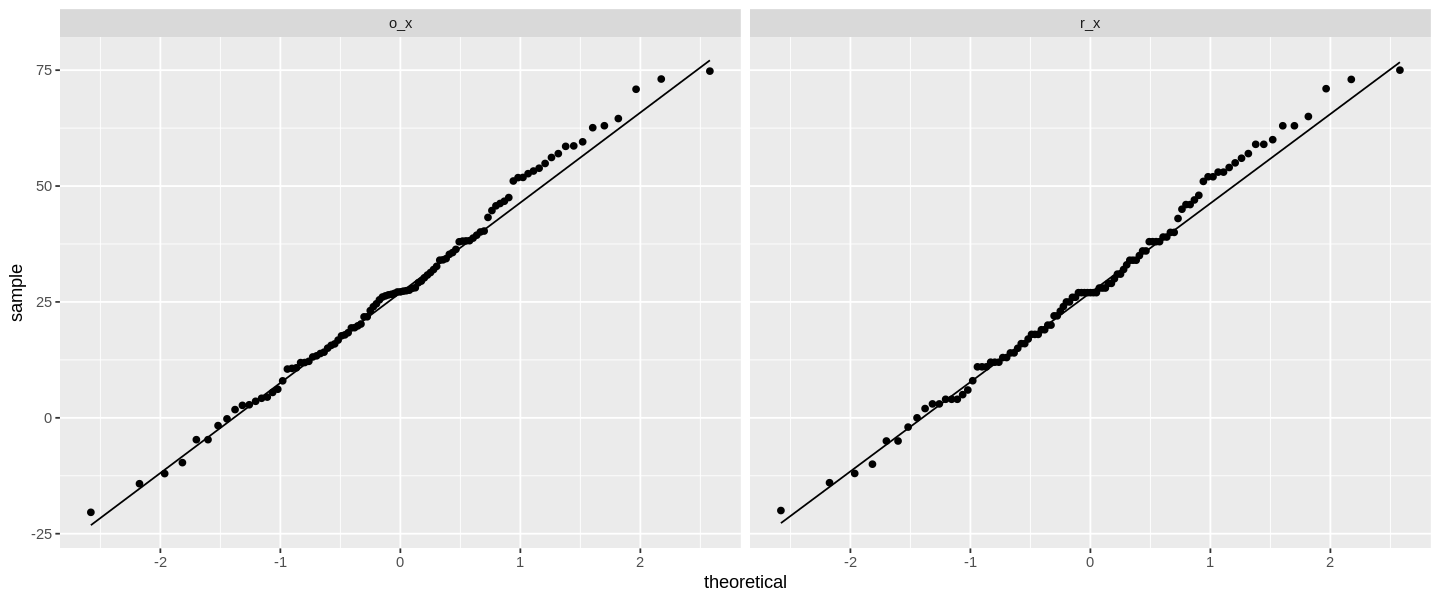
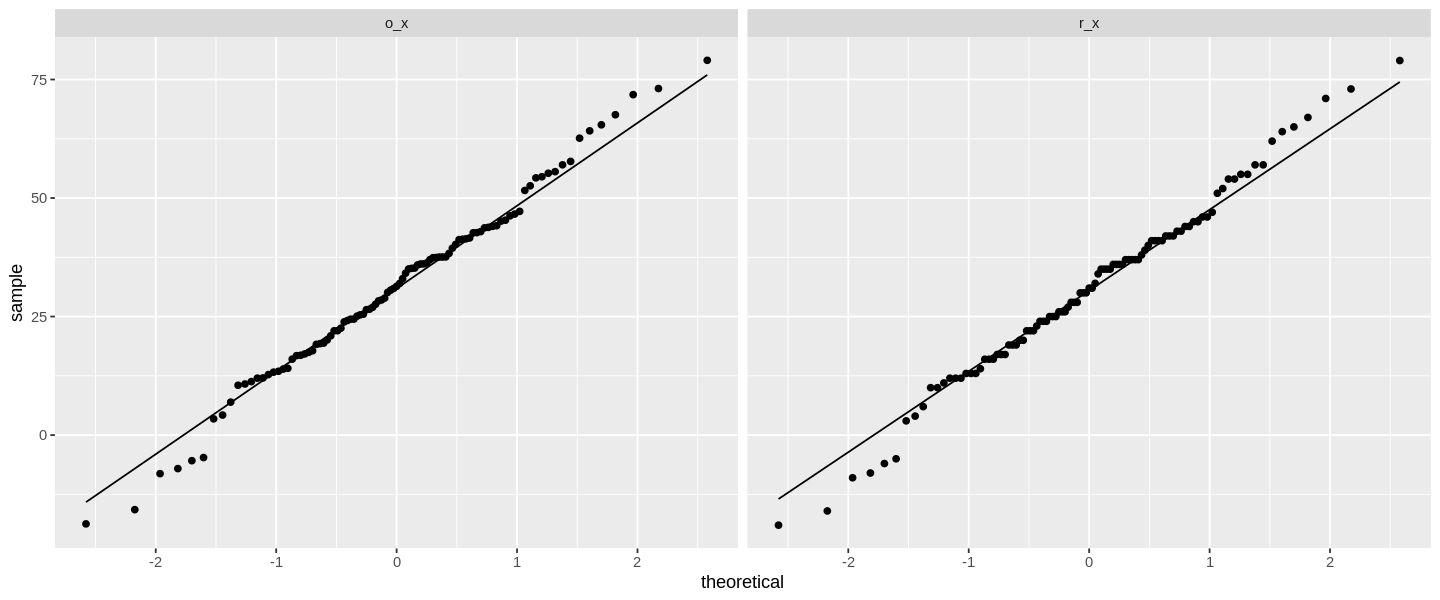
floor() statt round() - alle Daten neu berechnet.

diff --git a/_posts/2021-03-31-glahn.md b/_posts/2021-03-31-glahn.md
@@ -27,12 +27,12 @@ Wir würden erwarten, dass ein solches Abrunden keinen gewaltigen Effekt auf die
 daten = tibble(o_x = rnorm(101, mean = 30, sd = 20)) 
 ```
 
-Anschliessend runden wir die Werte und behalten sowohl den originalen ungerundeten als auch den gerundeten Wert. Das Ganze visualisieren wir  mit [ggplot2](https://ggplot2-book.org) als gegenübergestellte Histogramme. Achtung: im Folgenden runde ich gleichmässig mit der Funktion round(). Beim Alter runden wir jedoch immer ab. Dadurch verschieben sich die Verteilungen ein wenig anders
+Anschliessend runden wir die Werte und behalten sowohl den originalen ungerundeten als auch den gerundeten Wert. Das Ganze visualisieren wir  mit [ggplot2](https://ggplot2-book.org) als gegenübergestellte Histogramme.
 
 
 ```R
 daten %>%
-    mutate(r_x = round(o_x)) -> daten_gerundet
+    mutate(r_x = floor(o_x)) -> daten_gerundet
 
 daten_gerundet %>%
     pivot_longer(everything(), names_to = "nm", values_to = "vl") %>%
@@ -68,7 +68,7 @@ daten_gerundet %>%
 	<tr><th scope=col>&lt;dbl&gt;</th><th scope=col>&lt;dbl&gt;</th></tr>
 </thead>
 <tbody>
-	<tr><td>0.8076272</td><td>0.7415109</td></tr>
+	<tr><td>0.7582778</td><td>0.7423585/td></tr>
 </tbody>
 </table>
 
@@ -104,7 +104,7 @@ Wiederholen wir unser Experiment mit einer ähnlichen Stichprobe.
 ```R
 tibble(o_x = rnorm(101, mean = 25, sd = 3)) %>%
     mutate(
-        r_x = round(o_x)
+        r_x = floor(o_x)
     ) -> daten_homogen
 
 daten_homogen %>%
@@ -141,13 +141,13 @@ daten_homogen %>%
 	<tr><th scope=col>&lt;dbl&gt;</th><th scope=col>&lt;dbl&gt;</th></tr>
 </thead>
 <tbody>
-	<tr><td>0.1863778</td><td>0.03313807</td></tr>
+	<tr><td>0.4695755</td><td>0.09376193</td></tr>
 </tbody>
 </table>
 
 
 
-Hier sehen wir einen deutlichen Unterschied zwischen den beiden Verteilungen. Die gerundeten Werte werden nämlich *nicht* mehr als normalverteilt erkannt, weil der p-Wert für die Verteilung der gerundeten Werte kleiner als `0.05` ist. 
+Hier sehen wir einen deutlichen Unterschied zwischen den beiden Verteilungen. Die gerundeten Werte werden nämlich *nicht* mehr eindeutig als normalverteilt erkannt, weil der p-Wert für die Verteilung der gerundeten Werte kleiner als `0.1` aber immer noch grösser als `0.05` ist. 
 
 Betrachten wir also auch den Quantile-Plot für diese Daten:
 
@@ -177,7 +177,7 @@ Dramatisch wird es, wenn eine grössere Stichprobe vorliegt. Für grössere Stic
 ```R
 tibble(o_x = rnorm(301, mean = 25, sd = 3)) %>%
     mutate(
-        r_x = round(o_x)
+        r_x = floor(o_x)
     ) %>%
     summarise(
         o_swt = shapiro.test(o_x) %>% pluck("p.value") ,
@@ -192,7 +192,7 @@ tibble(o_x = rnorm(301, mean = 25, sd = 3)) %>%
 	<tr><th scope=col>&lt;dbl&gt;</th><th scope=col>&lt;dbl&gt;</th></tr>
 </thead>
 <tbody>
-	<tr><td>0.4773816</td><td>0.00797515</td></tr>
+	<tr><td>0.7661587</td><td>0.01650833</td></tr>
 </tbody>
 </table>
 
@@ -214,7 +214,7 @@ tibble(sz = c(100, 300)) %>%
                 seq(1, 100)  %>% map((function(m)
                         tibble(d = rnorm(n, mean = 25, sd = v)) %>%
                             mutate(
-                                dr = round(d)
+                                dr = floor(d)
                             ) %>%
                             summarise(
                                 swt_orig = shapiro.test(d) %>% pluck("p.value"),
@@ -273,20 +273,20 @@ sim_res
 	<tr><th scope=col>&lt;dbl&gt;</th><th scope=col>&lt;int&gt;</th><th scope=col>&lt;int&gt;</th><th scope=col>&lt;dbl&gt;</th><th scope=col>&lt;dbl&gt;</th><th scope=col>&lt;dbl&gt;</th><th scope=col>&lt;dbl&gt;</th><th scope=col>&lt;dbl&gt;</th><th scope=col>&lt;dbl&gt;</th><th scope=col>&lt;dbl&gt;</th><th scope=col>&lt;dbl&gt;</th></tr>
 </thead>
 <tbody>
-	<tr><td>100</td><td>1</td><td>100</td><td>0.5065447</td><td>0.2647259</td><td>92</td><td>96</td><td>1.732884e-05</td><td>3.181774e-05</td><td> 0</td><td> 0</td></tr>
-	<tr><td>300</td><td>1</td><td>100</td><td>0.5104359</td><td>0.2966514</td><td>88</td><td>94</td><td>3.502068e-11</td><td>1.082381e-10</td><td> 0</td><td> 0</td></tr>
-	<tr><td>100</td><td>2</td><td>100</td><td>0.5155653</td><td>0.2724566</td><td>93</td><td>97</td><td>2.249521e-02</td><td>2.380281e-02</td><td> 1</td><td>11</td></tr>
-	<tr><td>300</td><td>2</td><td>100</td><td>0.5167756</td><td>0.2898001</td><td>90</td><td>96</td><td>6.545307e-05</td><td>6.713743e-05</td><td> 0</td><td> 0</td></tr>
-	<tr><td>100</td><td>3</td><td>100</td><td>0.4983786</td><td>0.2908598</td><td>88</td><td>92</td><td>1.487559e-01</td><td>1.344941e-01</td><td>52</td><td>72</td></tr>
-	<tr><td>300</td><td>3</td><td>100</td><td>0.4843589</td><td>0.3027010</td><td>91</td><td>98</td><td>8.191736e-03</td><td>8.473458e-03</td><td> 0</td><td> 0</td></tr>
-	<tr><td>100</td><td>4</td><td>100</td><td>0.4656560</td><td>0.2824380</td><td>83</td><td>93</td><td>2.321351e-01</td><td>1.707667e-01</td><td>72</td><td>81</td></tr>
-	<tr><td>300</td><td>4</td><td>100</td><td>0.4709896</td><td>0.2596782</td><td>93</td><td>97</td><td>4.809246e-02</td><td>3.953590e-02</td><td>12</td><td>36</td></tr>
-	<tr><td>100</td><td>5</td><td>100</td><td>0.4876623</td><td>0.2907267</td><td>90</td><td>96</td><td>3.200359e-01</td><td>2.318128e-01</td><td>81</td><td>89</td></tr>
-	<tr><td>300</td><td>5</td><td>100</td><td>0.4763294</td><td>0.2973952</td><td>84</td><td>89</td><td>1.210158e-01</td><td>1.029215e-01</td><td>50</td><td>71</td></tr>
-	<tr><td>100</td><td>6</td><td>100</td><td>0.4909743</td><td>0.2824142</td><td>93</td><td>95</td><td>3.658340e-01</td><td>2.465823e-01</td><td>85</td><td>95</td></tr>
-	<tr><td>300</td><td>6</td><td>100</td><td>0.5016797</td><td>0.2806621</td><td>89</td><td>95</td><td>2.081683e-01</td><td>1.528467e-01</td><td>72</td><td>78</td></tr>
-	<tr><td>100</td><td>7</td><td>100</td><td>0.5078396</td><td>0.2782365</td><td>90</td><td>95</td><td>4.127144e-01</td><td>2.579759e-01</td><td>88</td><td>92</td></tr>
-	<tr><td>300</td><td>7</td><td>100</td><td>0.5193758</td><td>0.2883552</td><td>91</td><td>93</td><td>2.945605e-01</td><td>2.065937e-01</td><td>83</td><td>90</td></tr>
+	<tr><td>100</td><td>1</td><td>100</td><td>0.5274951</td><td>0.2891409</td><td>92</td><td>96</td><td>1.050969e-05</td><td>1.556370e-05</td><td> 0</td><td> 0</td></tr>
+	<tr><td>300</td><td>1</td><td>100</td><td>0.5196917</td><td>0.3037655</td><td>87</td><td>94</td><td>1.981378e-11</td><td>2.557004e-11</td><td> 0</td><td> 0</td></tr>
+	<tr><td>100</td><td>2</td><td>100</td><td>0.4635255</td><td>0.3024703</td><td>84</td><td>89</td><td>2.281296e-02</td><td>2.610167e-02</td><td> 2</td><td>12</td></tr>
+	<tr><td>300</td><td>2</td><td>100</td><td>0.4763649</td><td>0.2686310</td><td>91</td><td>96</td><td>6.607675e-05</td><td>7.466181e-05</td><td> 0</td><td> 0</td></tr>
+	<tr><td>100</td><td>3</td><td>100</td><td>0.5271164</td><td>0.2724495</td><td>94</td><td>96</td><td>1.355401e-01</td><td>1.109334e-01</td><td>49</td><td>78</td></tr>
+	<tr><td>300</td><td>3</td><td>100</td><td>0.4919047</td><td>0.2997262</td><td>88</td><td>94</td><td>7.669087e-03</td><td>7.224085e-03</td><td> 0</td><td> 0</td></tr>
+	<tr><td>100</td><td>4</td><td>100</td><td>0.4655805</td><td>0.2983864</td><td>83</td><td>91</td><td>2.325318e-01</td><td>1.888101e-01</td><td>67</td><td>80</td></tr>
+	<tr><td>300</td><td>4</td><td>100</td><td>0.4539497</td><td>0.2837617</td><td>88</td><td>91</td><td>4.472703e-02</td><td>4.036167e-02</td><td>10</td><td>32</td></tr>
+	<tr><td>100</td><td>5</td><td>100</td><td>0.5029088</td><td>0.2887666</td><td>89</td><td>97</td><td>3.272665e-01</td><td>2.230211e-01</td><td>81</td><td>90</td></tr>
+	<tr><td>300</td><td>5</td><td>100</td><td>0.4803165</td><td>0.2763079</td><td>87</td><td>93</td><td>1.191972e-01</td><td>8.625414e-02</td><td>56</td><td>73</td></tr>
+	<tr><td>100</td><td>6</td><td>100</td><td>0.4894684</td><td>0.2832150</td><td>91</td><td>94</td><td>3.703226e-01</td><td>2.552920e-01</td><td>85</td><td>93</td></tr>
+	<tr><td>300</td><td>6</td><td>100</td><td>0.5076400</td><td>0.3055214</td><td>90</td><td>94</td><td>2.170836e-01</td><td>1.704709e-01</td><td>65</td><td>79</td></tr>
+	<tr><td>100</td><td>7</td><td>100</td><td>0.4664821</td><td>0.2994581</td><td>85</td><td>92</td><td>3.736853e-01</td><td>2.578793e-01</td><td>79</td><td>90</td></tr>
+	<tr><td>300</td><td>7</td><td>100</td><td>0.5345596</td><td>0.2943685</td><td>91</td><td>95</td><td>2.915232e-01</td><td>2.043859e-01</td><td>79</td><td>88</td></tr>
 </tbody>
 </table>
 
@@ -348,4 +348,4 @@ Wenn uns metrisch skalierte Variablen mit gerundeten Werten vorliegen, dann müs
 
 Abschliessend gehe ich noch auf diese Frage ein, denn wie ich schon Eingangs festgestellt habe, ist eine kleine Standardabweichung *relativ*. Grundsätzlich gilt hier, dass eine kleine Standardabweichung dann vorliegt, wenn sie in der gleichen Grössenordnung wie die Rundung liegt. In diesem Fall können wir Zwischenschritte zwischen den gerundeten Werten nicht mehr differenzieren und aus der Perspektive des Shapiro-Wilk-Tests erscheinen die Daten als diskret skaliert. Runden wir auf ganze Zahlen, dann liegen kleine Standardabweichungen oft zwischen `1` und `10`. Runden wir auf eine Dezimalstelle, dann liegen kleine Standardabweichungen zwischen `0.1` und `1`. 
 
-> Dieser Blog-Beitrag wurde mit [Jupyter Lab](https://jupyter.org/) erstellt. Alle Grafiken wurden mit [ggplot2](https://ggplot2.tidyverse.org/) erstellt. 
+> Dieser Blog-Beitrag wurde mit [Jupyter Lab](https://jupyter.org/) erstellt. Alle Grafiken wurden mit [ggplot2](https://ggplot2.tidyverse.org/) aus den Daten erzeugt. 
